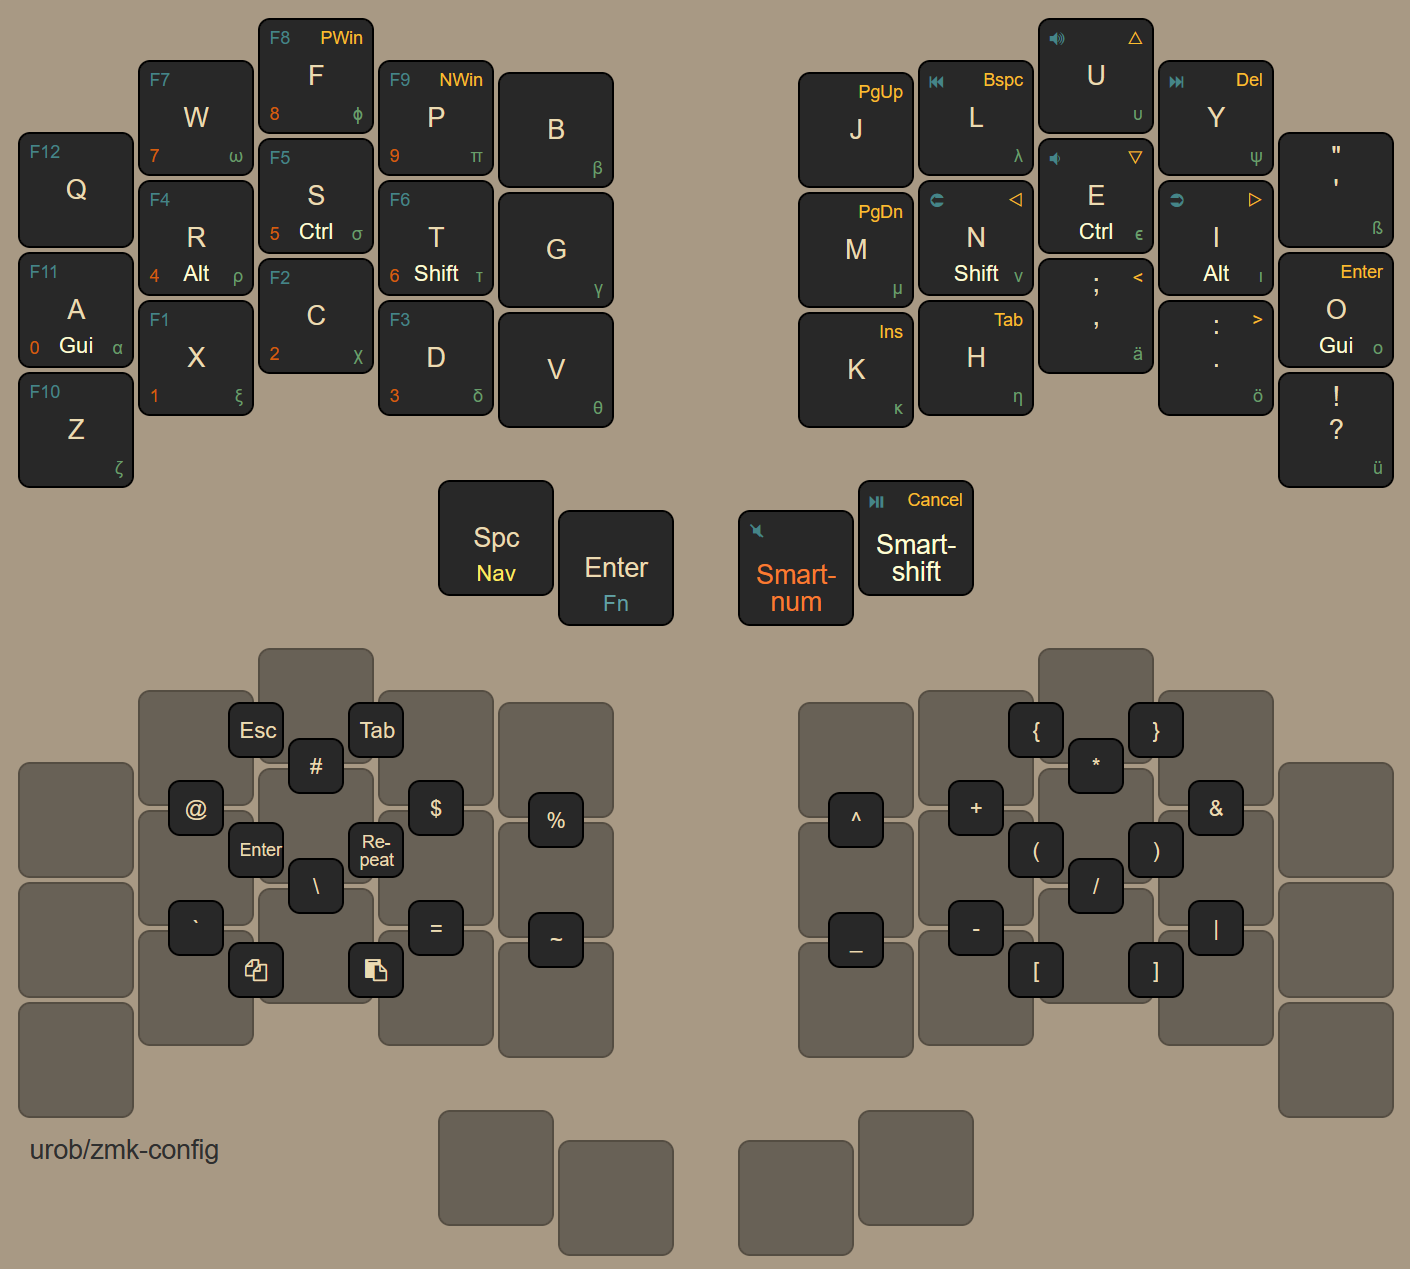
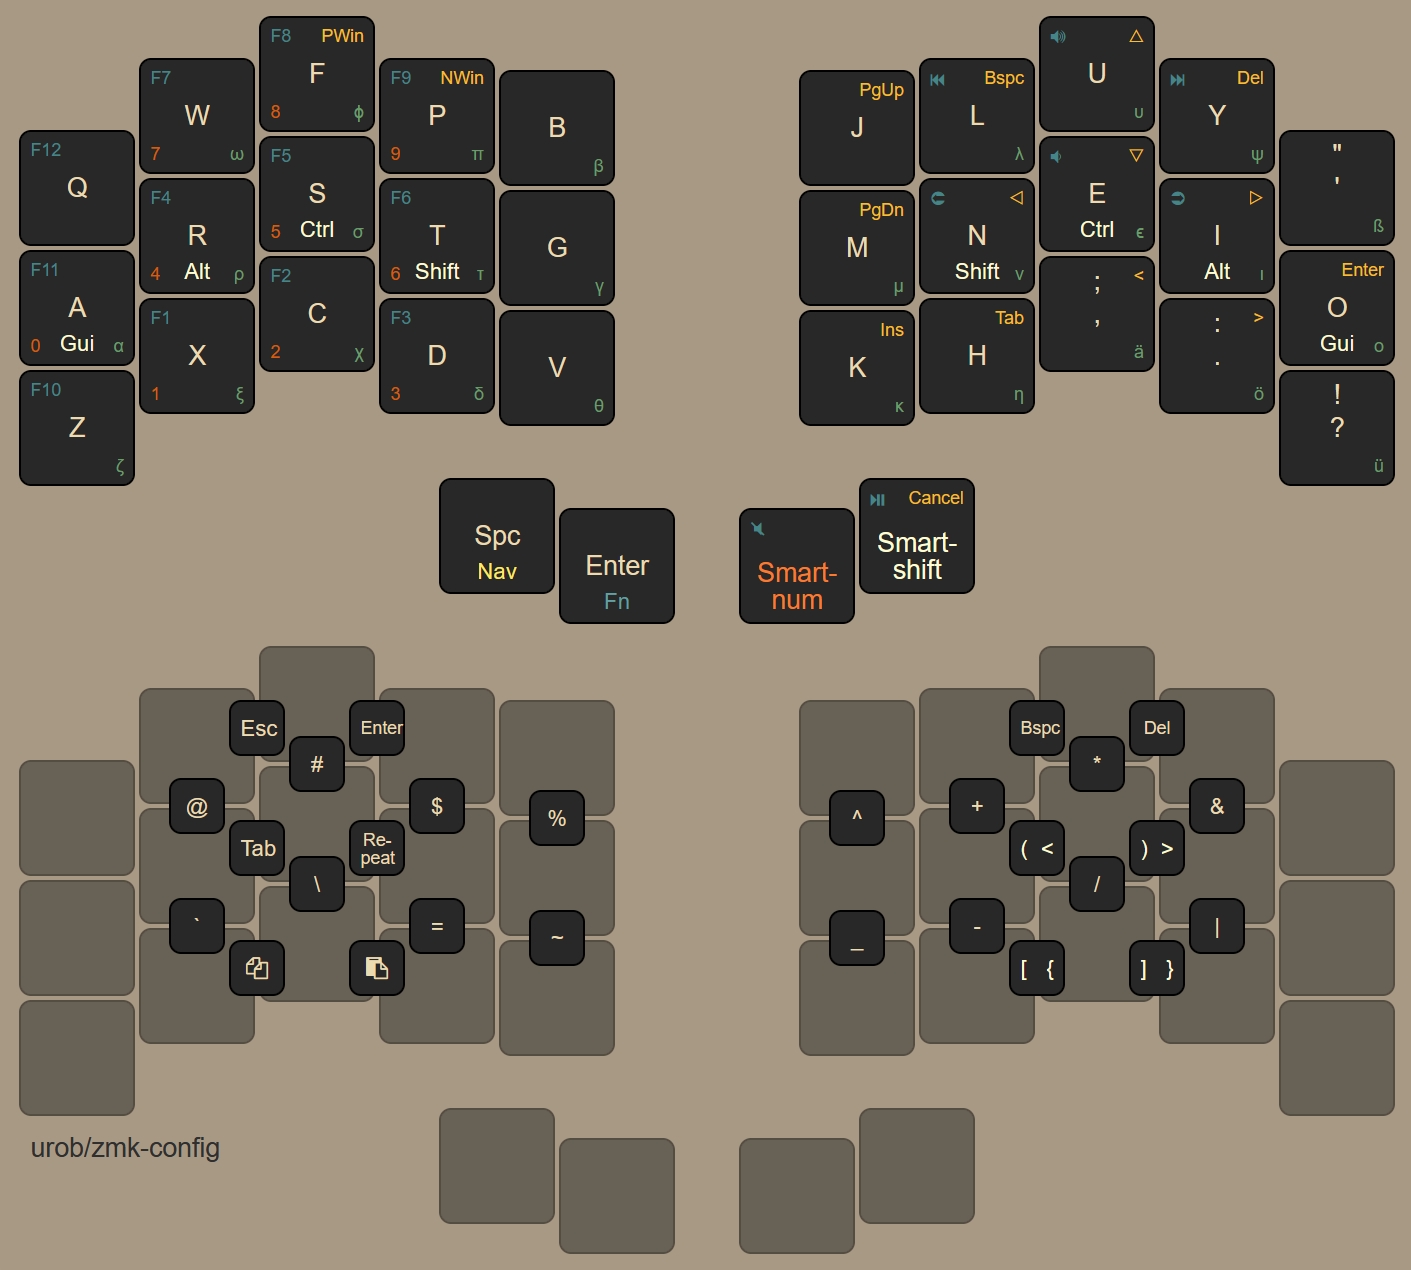
Document combo shuffle

diff --git a/readme.md b/readme.md
@@ -87,10 +87,10 @@ This is great but there are still a few rough edges:
     flavour only kicks in when another key is pressed, this also requires
     waiting past `tapping-term-ms`.
 * Finally, it is worth noting that this setup works best in combination with a
-  dedicated shift for capitalization during normal typing (I am a big fan of
-  sticky-shift on a home-thumb). This is because shifting alphas is the
-  one scenario where pressing a mod may conflict with `global-quick-tap`, which
-  may result in false negatives when typing fast.
+  dedicated shift for capitalization during normal typing (I like sticky-shift
+  on a home-thumb). This is because shifting alphas is the one scenario where
+  pressing a mod may conflict with `global-quick-tap`, which may result in
+  false negatives when typing fast.
 
 Here's my configuration (I use a bunch of [helper
 macros](https://github.com/urob/zmk-nodefree-config) to simplify the syntax, but they
@@ -151,7 +151,7 @@ misfires. Fortunately, the above-mentioned PR #1387, also adds a `global-quick-t
 for combos, which in my experience all but completely eliminates the problem -- even
 when rolling keys on the home row!
 
-My combo layout aims place the most used symbols in easy-to-access
+My combo layout aims to place the most used symbols in easy-to-access
 locations while also making them easy to remember. Specifically:
 
 - the top vertical-combo row matches the symbols on a standard numbers row
@@ -159,7 +159,8 @@ locations while also making them easy to remember. Specifically:
 - the bottom vertical-combo row is symmetric to the top row (subscript `_`
   aligns with superscript `^`; minus `-` aligns with `+`; division `/` aligns
   with multiplication `*`; logical-or `|` aligns with logical-and `&`)
-- parenthesis, braces, brackets are set up symmetrically as horizontal combos
+- parenthesis, braces, brackets are set up symmetrically as horizontal combos with `<`,
+  `>`, `{` and `}` being accessed from the Navigation layer
 - left-hand side combos for `tap`, `esc`, `enter`, `cut` (on <kbd>X</kbd> + <kbd>D</kbd>),
   `copy` and `paste` that go well with right-handed mouse usage
 - <kbd>L</kbd> + <kbd>Y</kbd> switches to the Greek layer for a single key
@@ -187,7 +188,10 @@ The main downside is that if a sequence of numbers is *immediately* followed by 
 letters on which my numpad is located (WFPRSTXCD), then the automatic deactivation won't
 work. But this is rare -- most number sequences are terminated by `space`, `return` or some form
 of punctuation/delimination. To deal with the rare cases where they aren't, there is a 
-`CANCEL` key on the navigation-layer that deactivates Numword, Capsword and Smart-mouse.
+`CANCEL` key on the navigation-layer that deactivates Numword, Capsword and Smart-mouse. 
+(It also toggles off when pressing `Numword` again, but I find it cognitively easier to
+have a dedicated "off-switch" than keeping track of which modes are currently active.)
+
 
 ##### Smart-Mouse
 
@@ -219,11 +223,11 @@ one-handed Alt-Tab switcher (`PWin` and `NWin`).
 
 ##### Repeat
 
-I recently switched to 25g-chocs on one of my keyboards. I already was a big fan of 
-combos prior to that (even with heavy MX-switches). But with the light chocs, I find 
-that I can now even use them for regular typing. While I haven't yet tried placing alphas 
-on combos, I am currently experimenting with a `repeat` combo on my home row that I 
-use to make writing double-letter words more fun.
+I recently switched to 25g-chocs on one of my keyboards. I already was very happy with
+my combos prior to that (even with heavy-ish MX-switches). But with the light chocs, I
+find that I can now even use them for regular typing. While I haven't yet tried
+placing alphas on combos, I am currently experimenting with a `repeat` combo on
+my home row that I use to reduce SFUs when typing double-letter words.
 
 ## Issues and workarounds
 
@@ -234,11 +238,12 @@ natively that would require complex user-space implementations in QMK). Below
 are a few remaining issues:
 
 - ZMK does not yet support "tap-only" combos
-  ([#544](https://github.com/zmkfirmware/zmk/issues/544)), requiring a brief pause when
-  wanting to chord HRMs that overlap with combo positions. As a workaround, I implemented
-  all homerow combos as homerow-mod-combos. This is good enough for day-to-day, but does
-  not address all edge cases (eg removing mods from the mix doesn't work well). I am 
-  really hoping for a native solution similar to QMK's "COMBO_MUST_TAP" property.
+  ([#544](https://github.com/zmkfirmware/zmk/issues/544)), requiring a brief
+  pause when wanting to chord HRMs that overlap with combo positions. As a
+  workaround, I implemented all homerow combos as homerow-mod-combos. This is
+  good enough for day-to-day, but does not address all edge cases (eg
+  dynamically adding/removing mods doesn't work well). Having a native solution
+  akin to QMK's "COMBO_MUST_TAP" property would be fantastic.
 - Another item on my wishlist are adaptive keys
   ([#1624](https://github.com/zmkfirmware/zmk/issues/1624)). This would open
   the door for things like <kbd>space</kbd><kbd>space</kbd> becoming
